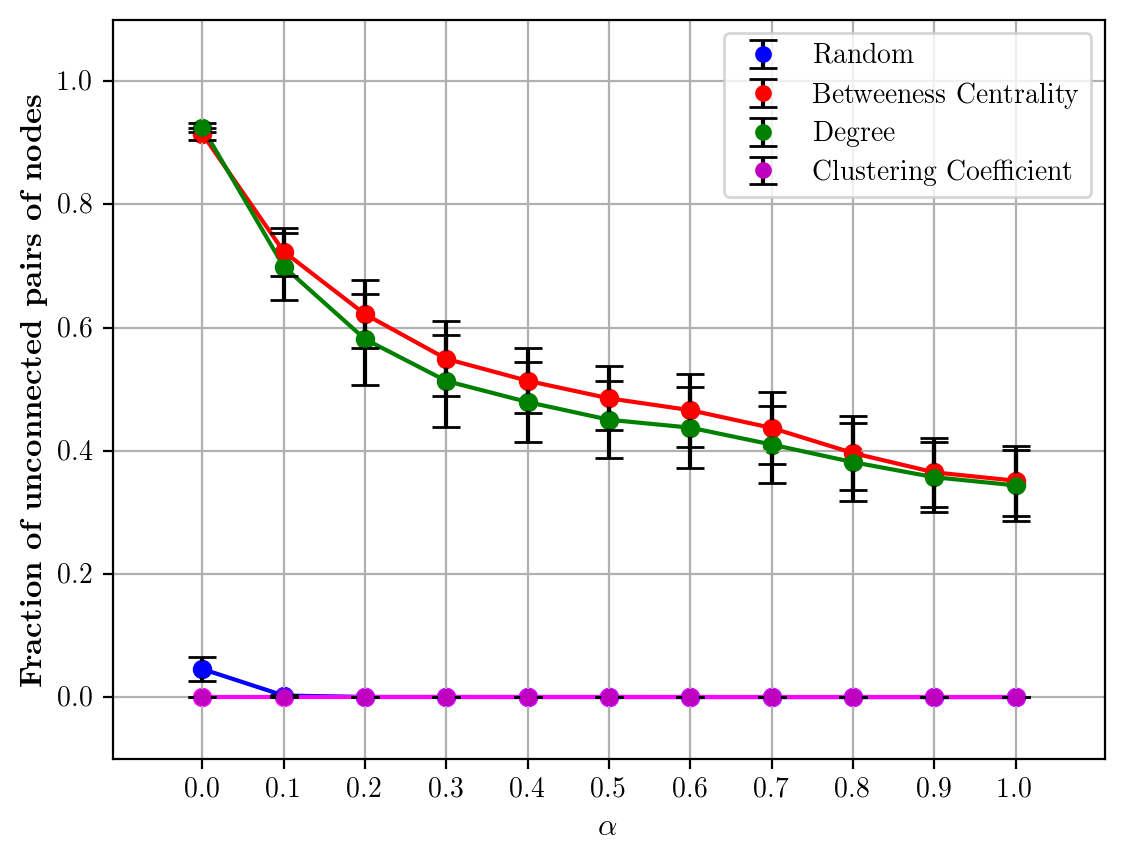
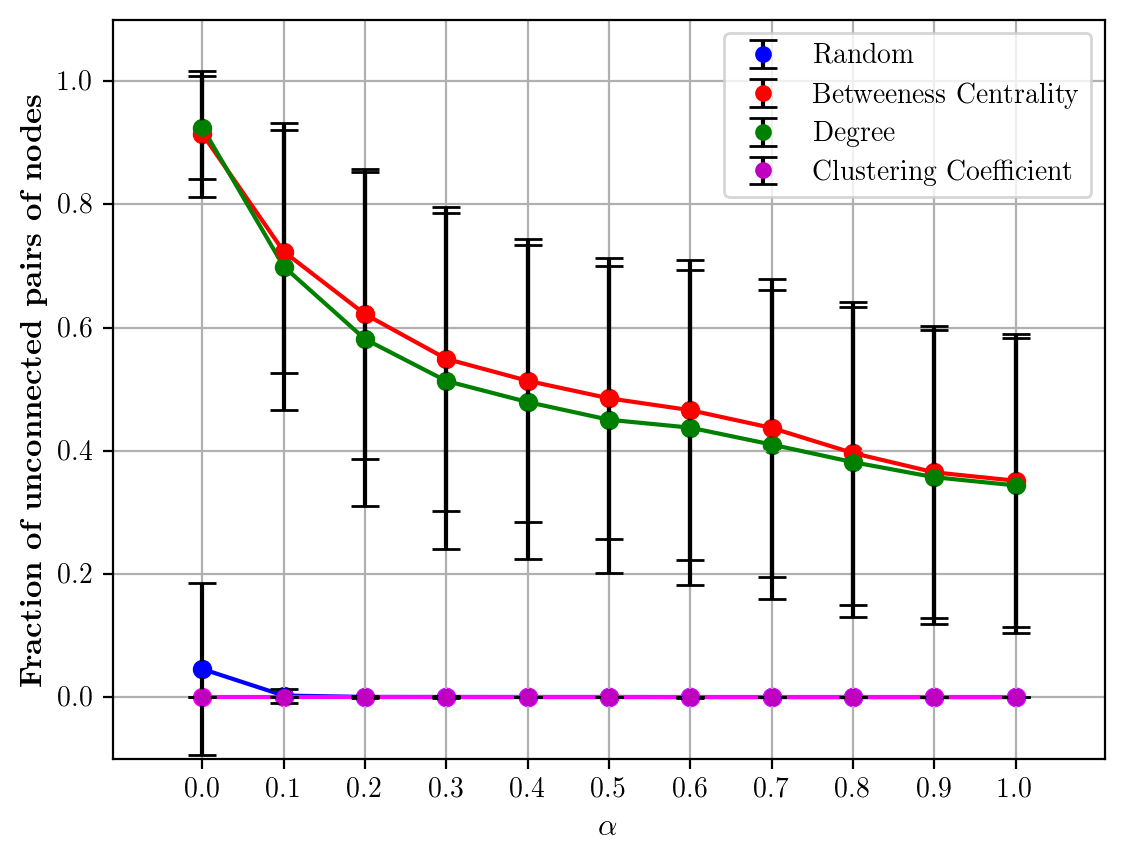
Delete islands

diff --git a/Plots/apl_nodes.py b/Plots/apl_nodes.py
@@ -151,10 +151,10 @@ plt.plot(alphas, unc_pairs_avg_bc, color="red")
 plt.plot(alphas, unc_pairs_avg_dg, color="green")
 plt.plot(alphas, unc_pairs_avg_cl, color="magenta")
 
-plt.errorbar(alphas, unc_pairs_avg_rand, unc_pairs_var_rand, fmt='bo', markersize=5, capsize=5, ecolor="black", label="Random")
-plt.errorbar(alphas, unc_pairs_avg_bc, unc_pairs_var_bc, fmt='ro', markersize=5, capsize=5, ecolor="black", label="Betweeness Centrality")
-plt.errorbar(alphas, unc_pairs_avg_dg, unc_pairs_var_dg, fmt='go', markersize=5, capsize=5, ecolor="black", label="Degree")
-plt.errorbar(alphas, unc_pairs_avg_cl, unc_pairs_var_cl, fmt='mo', markersize=5, capsize=5, ecolor="black", label="Clustering Coefficient")
+plt.errorbar(alphas, unc_pairs_avg_rand, np.sqrt(unc_pairs_var_rand), fmt='bo', markersize=5, capsize=5, ecolor="black", label="Random")
+plt.errorbar(alphas, unc_pairs_avg_bc, np.sqrt(unc_pairs_var_bc), fmt='ro', markersize=5, capsize=5, ecolor="black", label="Betweeness Centrality")
+plt.errorbar(alphas, unc_pairs_avg_dg, np.sqrt(unc_pairs_var_dg), fmt='go', markersize=5, capsize=5, ecolor="black", label="Degree")
+plt.errorbar(alphas, unc_pairs_avg_cl, np.sqrt(unc_pairs_var_cl), fmt='mo', markersize=5, capsize=5, ecolor="black", label="Clustering Coefficient")
 
 plt.xlim((-1.1, 11.1))
 plt.ylim((-0.1, 1.1))

diff --git a/Plots/giant_c_nodes.py b/Plots/giant_c_nodes.py
@@ -155,10 +155,10 @@ plt.plot(alphas, giant_c_avg_bc, color="red")
 plt.plot(alphas, giant_c_avg_dg, color="green")
 plt.plot(alphas, giant_c_avg_cl, color="magenta")
 
-plt.errorbar(alphas, giant_c_avg_rand, giant_c_var_rand, fmt='bo', markersize=5, capsize=5, ecolor="black", label="Random")
-plt.errorbar(alphas, giant_c_avg_bc, giant_c_var_bc, fmt='ro', markersize=5, capsize=5, ecolor="black", label="Betweeness Centrality")
-plt.errorbar(alphas, giant_c_avg_dg, giant_c_var_dg, fmt='go', markersize=5, capsize=5, ecolor="black", label="Degree")
-plt.errorbar(alphas, giant_c_avg_cl, giant_c_var_cl, fmt='mo', markersize=5, capsize=5, ecolor="black", label="Clustering Coefficient")
+plt.errorbar(alphas, giant_c_avg_rand, np.sqrt(giant_c_var_rand), fmt='bo', markersize=5, capsize=5, ecolor="black", label="Random")
+plt.errorbar(alphas, giant_c_avg_bc, np.sqrt(giant_c_var_bc), fmt='ro', markersize=5, capsize=5, ecolor="black", label="Betweeness Centrality")
+plt.errorbar(alphas, giant_c_avg_dg, np.sqrt(giant_c_var_dg), fmt='go', markersize=5, capsize=5, ecolor="black", label="Degree")
+plt.errorbar(alphas, giant_c_avg_cl, np.sqrt(giant_c_var_cl), fmt='mo', markersize=5, capsize=5, ecolor="black", label="Clustering Coefficient")
 
 plt.xlim((-1.1, 11.1))
 plt.ylim((-0.1, 1.1))

diff --git a/Plots/n_comp_nodes.py b/Plots/n_comp_nodes.py
@@ -147,10 +147,10 @@ plt.plot(alphas, n_comp_avg_bc, color="red")
 plt.plot(alphas, n_comp_avg_dg, color="green")
 plt.plot(alphas, n_comp_avg_cl, color="magenta")
 
-# plt.errorbar(alphas, n_comp_avg_rand, n_comp_var_rand, fmt='bo', markersize=5, capsize=5, ecolor="black", label="Random")
-# plt.errorbar(alphas, n_comp_avg_bc, n_comp_var_bc, fmt='ro', markersize=5, capsize=5, ecolor="black", label="Betweeness Centrality")
-# plt.errorbar(alphas, n_comp_avg_dg, n_comp_var_dg, fmt='go', markersize=5, capsize=5, ecolor="black", label="Degree")
-# plt.errorbar(alphas, n_comp_avg_cl, n_comp_var_cl, fmt='mo', markersize=5, capsize=5, ecolor="black", label="Clustering Coefficient")
+plt.errorbar(alphas, n_comp_avg_rand, np.sqrt(n_comp_var_rand), fmt='bo', markersize=5, capsize=5, ecolor="black", label="Random")
+plt.errorbar(alphas, n_comp_avg_bc, np.sqrt(n_comp_var_bc), fmt='ro', markersize=5, capsize=5, ecolor="black", label="Betweeness Centrality")
+plt.errorbar(alphas, n_comp_avg_dg, np.sqrt(n_comp_var_dg), fmt='go', markersize=5, capsize=5, ecolor="black", label="Degree")
+plt.errorbar(alphas, n_comp_avg_cl, np.sqrt(n_comp_var_cl), fmt='mo', markersize=5, capsize=5, ecolor="black", label="Clustering Coefficient")
 
 # plt.xlim((-1.1, 11.1))
 # plt.ylim((-0.1, 1.1))
